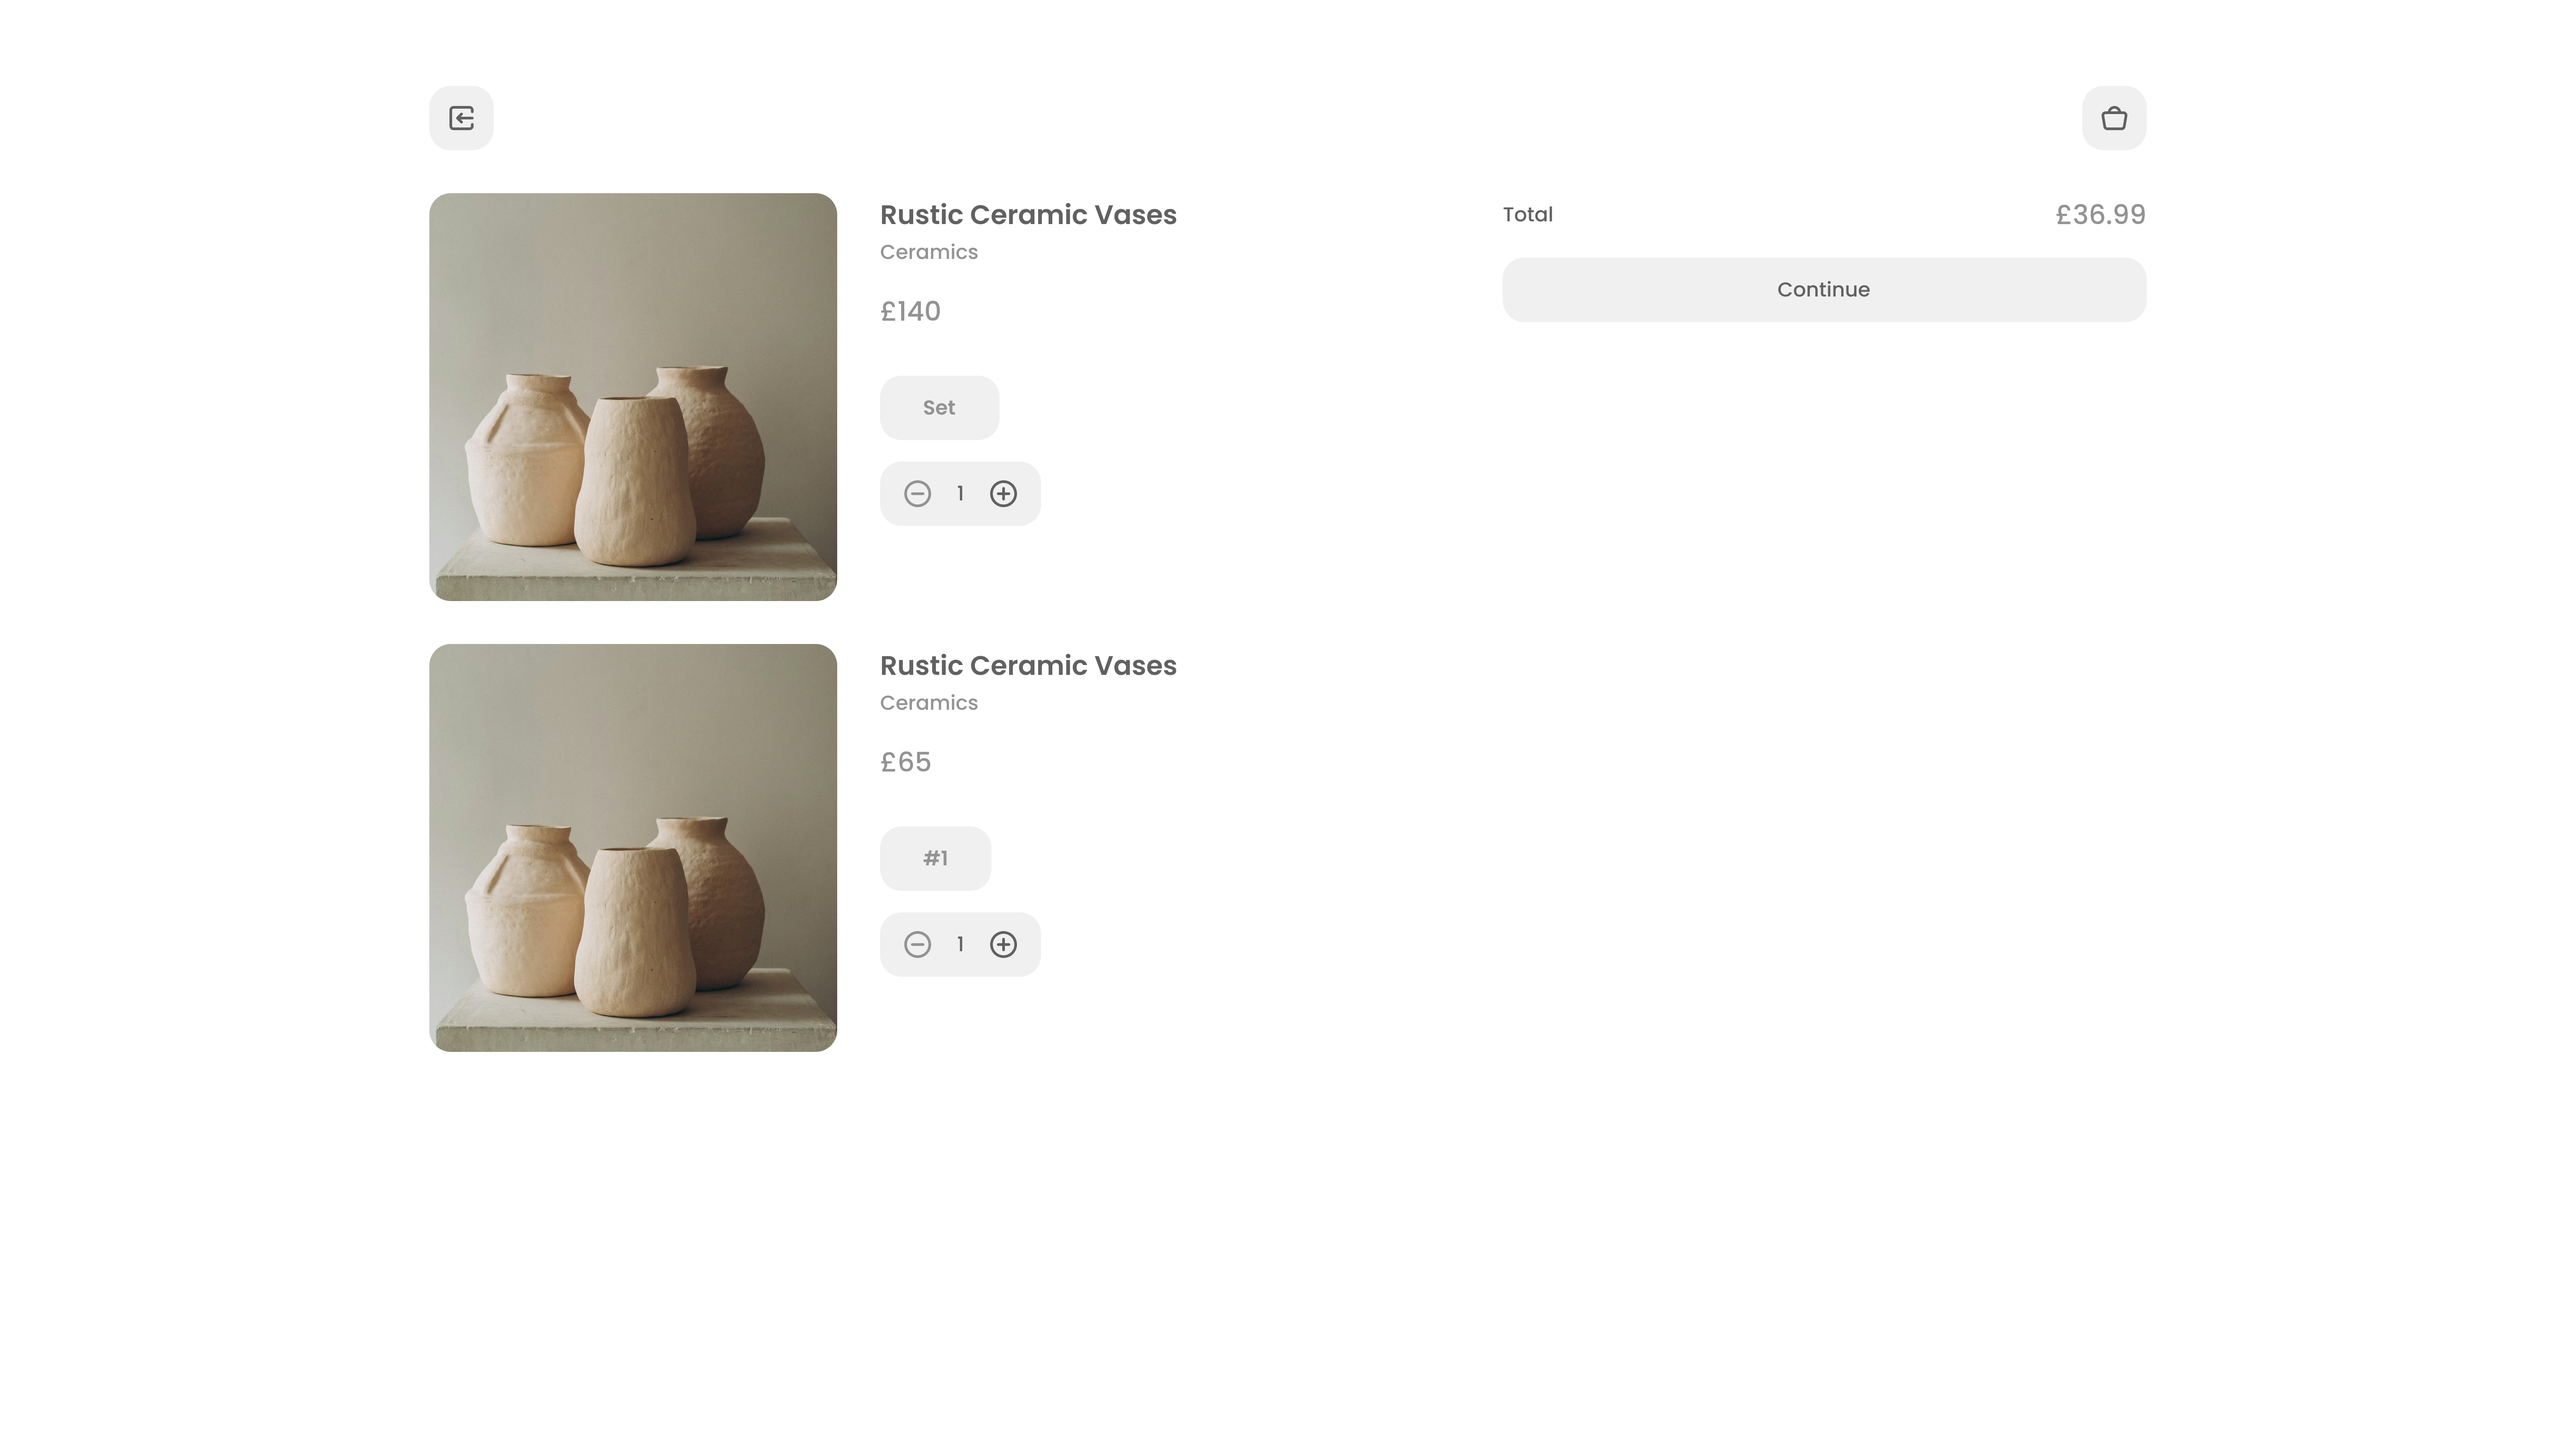
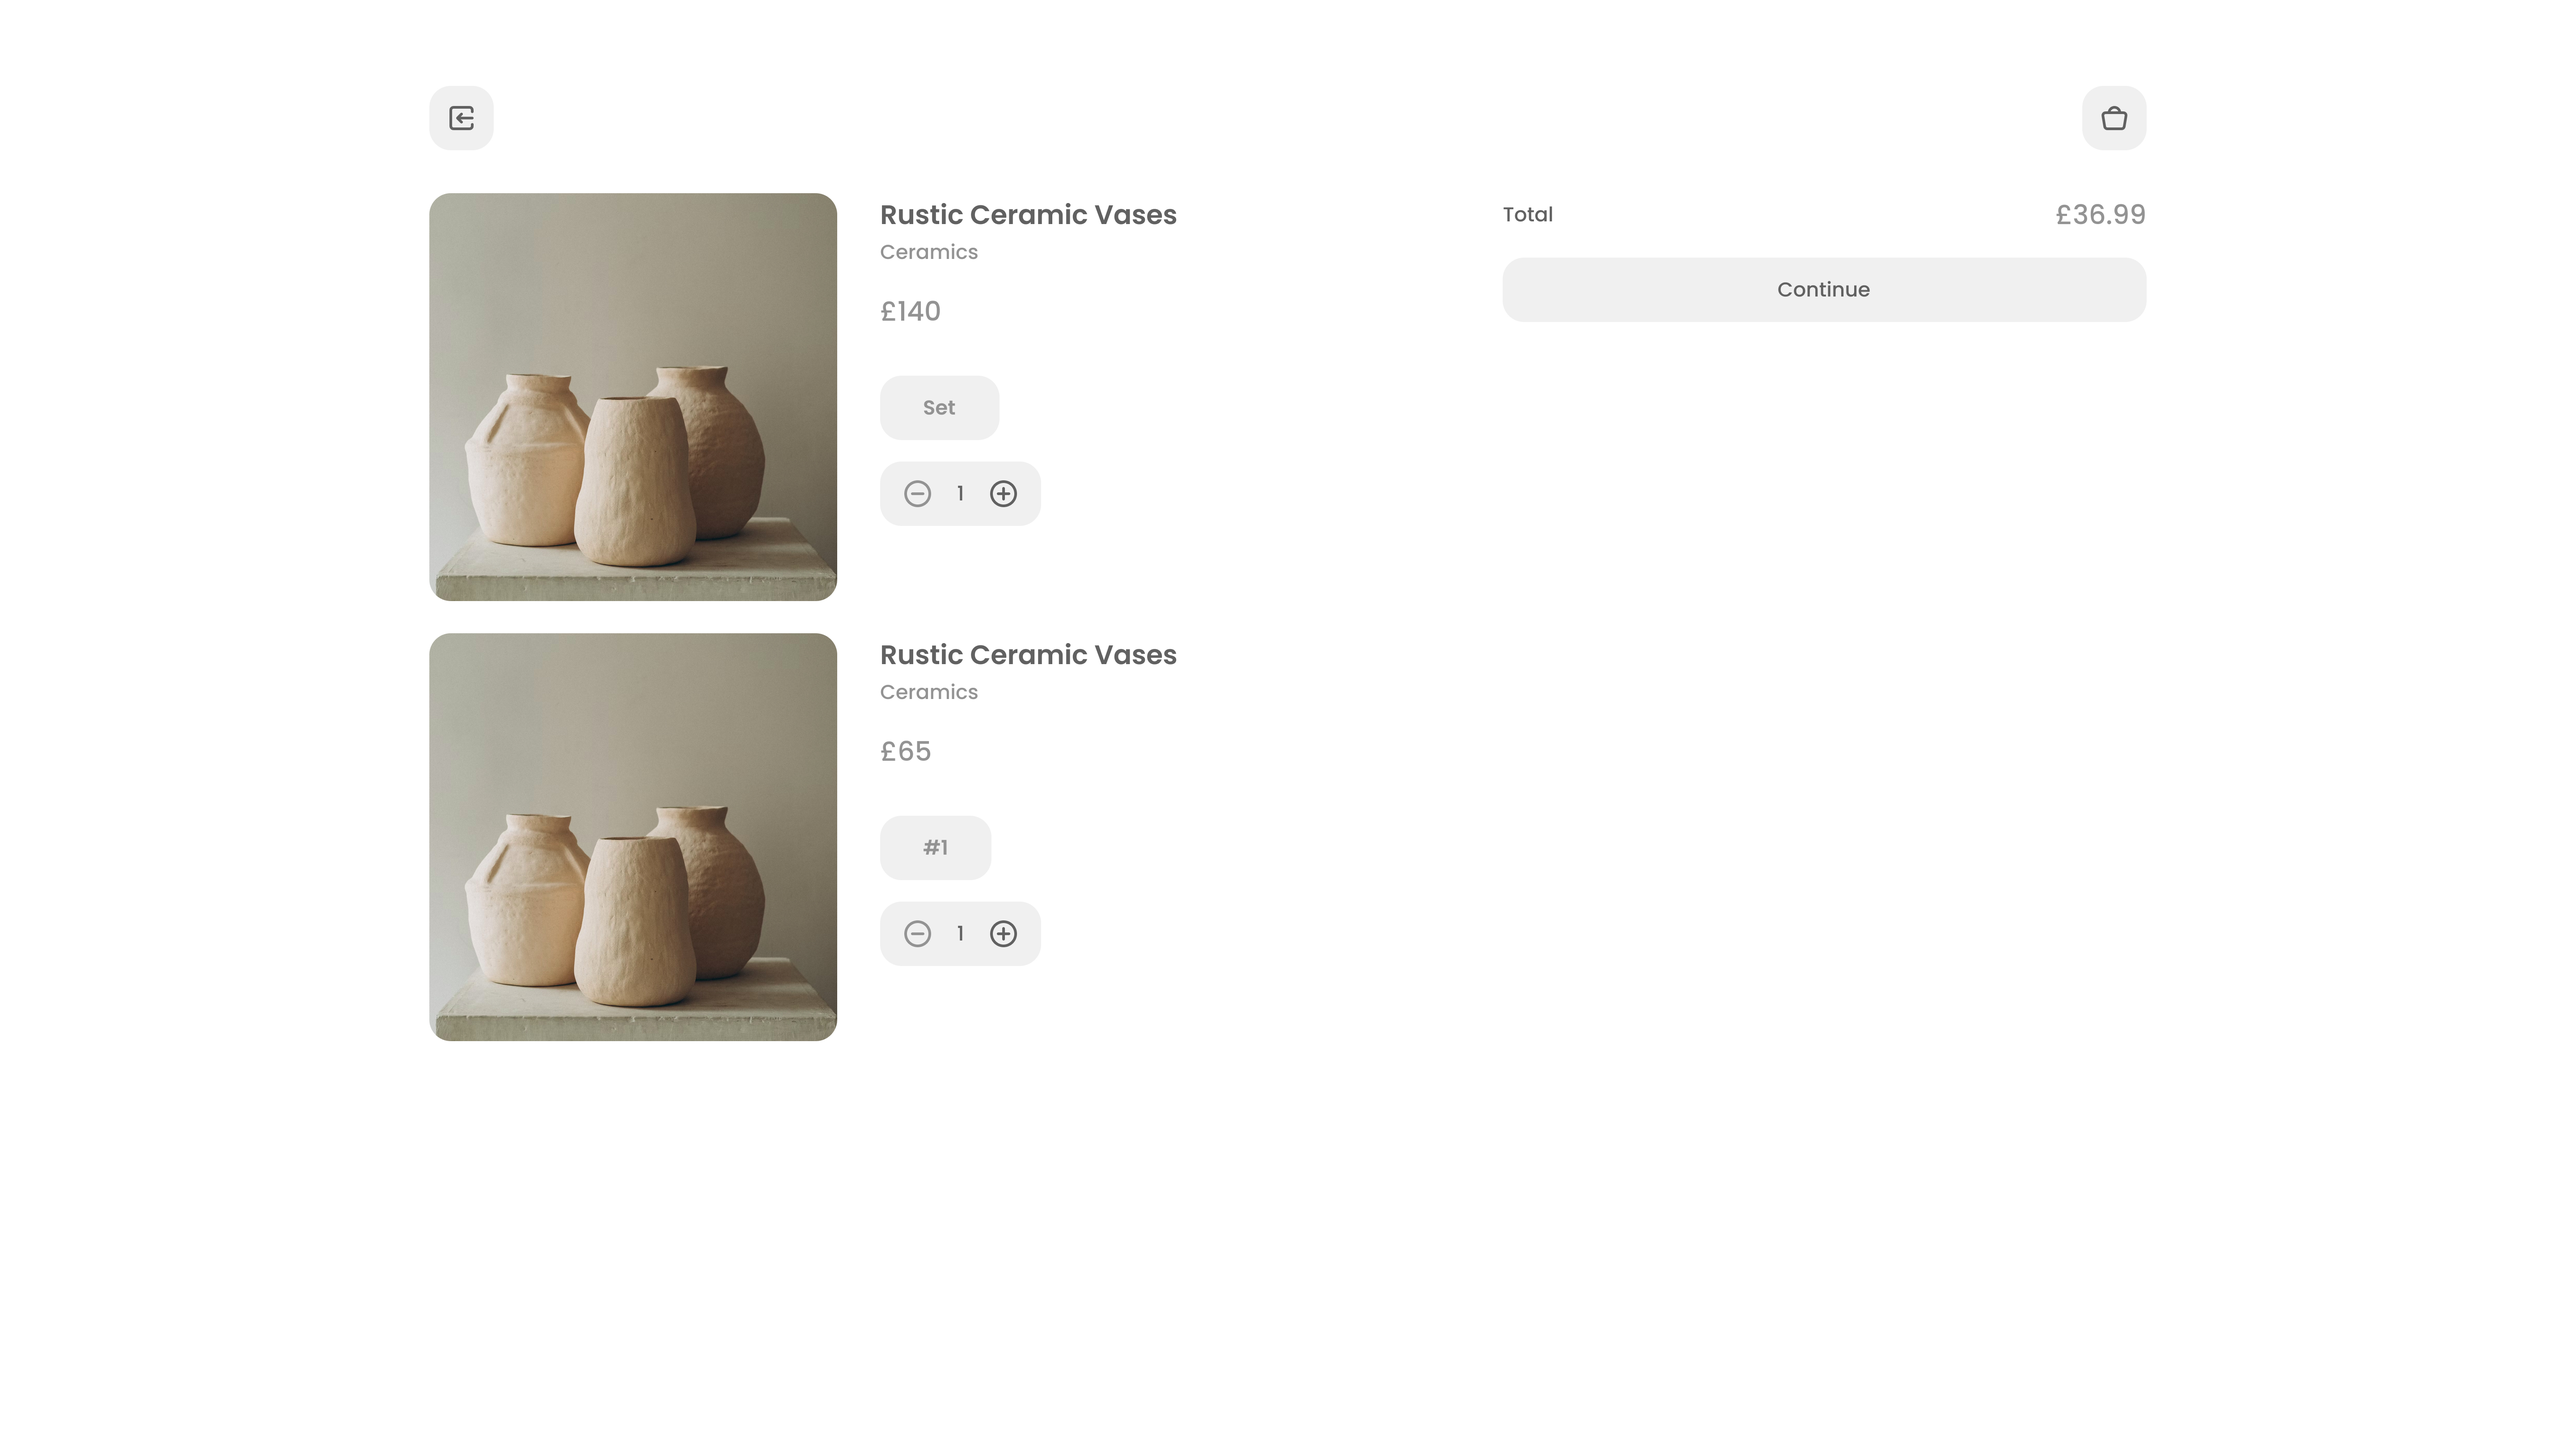
Basket card responsiveness almost complete

Changed region(s): [[0.1562, 0.6546, 0.3438, 0.7481], [0.1562, 0.4364, 0.4688, 0.5299], [0.1875, 0.5299, 0.2812, 0.6235]]

diff --git a/front_end/src/Organisms/Basket-Pg-Actions/Index.tsx b/front_end/src/Organisms/Basket-Pg-Actions/Index.tsx
@@ -1,0 +1,46 @@
+import { FC, useEffect, useState } from "react";
+import BtnMain from "../../Molecules/Btn-Main/Index";
+import Text from "../../Atoms/Text";
+import "./Style.css";
+import Heading from "../../Atoms/Headings";
+
+interface Props {
+	price: number;
+	callback: (callback: number) => void;
+}
+
+const BasketPgActions: FC<Props> = ({ price, callback }) => {
+	// Quanity of the product selected
+	const [quanitity, setQuantity] = useState<number>(1);
+	// User has clicked the button
+	const [okay, setOkay] = useState<boolean>(false);
+
+	// Push the quantity to the parent component on button click
+	useEffect(() => {
+		if (okay) {
+			callback(quanitity);
+		}
+	}, [okay]);
+
+	return (
+		<div className="basket-pg__actions">
+			<div className="basket-pg__actions__top">
+				<Heading
+					type="Primary"
+					size="three"
+					text="Total"
+					colour="--grey-one"
+				/>
+				<Text
+					size="one"
+					text={`£${price * quanitity}`}
+					colour="--grey-two"
+				/>
+			</div>
+
+			<BtnMain text="Continue" output={setOkay} />
+		</div>
+	);
+};
+
+export default BasketPgActions;

diff --git a/front_end/src/Pages/Basket-Page/Service.tsx b/front_end/src/Pages/Basket-Page/Service.tsx
@@ -1,3 +1,5 @@
+import { EventEmitter } from "../../Services/Index";
+
 export interface Product {
 	id: number;
 	heading: string;
@@ -8,6 +10,7 @@ export interface Product {
 
 export class Basket {
 	private static basket: Array<Product>;
+	private static emitter = new EventEmitter();
 
 	static {
 		Basket.basket = JSON.parse(localStorage.getItem("basket") || "[]");
@@ -26,6 +29,7 @@ export class Basket {
 		}
 
 		localStorage.setItem("basket", JSON.stringify(Basket.basket));
+		this.emitter.emit("change");
 	}
 
 	static removeItem(item: Product) {
@@ -41,6 +45,7 @@ export class Basket {
 				Basket.basket.splice(index, 1);
 			}
 			localStorage.setItem("basket", JSON.stringify(Basket.basket));
+			this.emitter.emit("change");
 		}
 	}
 
@@ -53,5 +58,13 @@ export class Basket {
 
 	static getItems() {
 		return Basket.basket;
+	}
+
+	static on(handler: (event: string) => void) {
+		this.emitter.on("change", handler);
+	}
+
+	static off(handler: (event: string) => void) {
+		this.emitter.off("change", handler);
 	}
 }

diff --git a/front_end/src/Pages/Basket-Page/Index.tsx b/front_end/src/Pages/Basket-Page/Index.tsx
@@ -1,14 +1,31 @@
-import { FC } from "react";
+import { FC, useEffect, useState } from "react";
 import NavBar from "../../Organisms/Nav-Bar/Index";
 import { Basket } from "./Service";
 import BasketCrdGrid from "../../Organisms/Basket-Crd-Grid/Index";
+import "./Style.css";
+import BasketPgActions from "../../Organisms/Basket-Pg-Actions/Index";
 
 const BasketPage: FC = () => {
-	console.log(Basket.getItems());
+	const [callback, setCallback] = useState<number>(0);
+	const [price, setPrice] = useState<number>(Basket.getTotal());
+
+	useEffect(() => {
+		const handleBasketChange = () => {
+			setPrice(Basket.getTotal());
+		};
+
+		Basket.on(handleBasketChange);
+
+		return () => {
+			Basket.off(handleBasketChange);
+		};
+	}, []);
+
 	return (
-		<main>
+		<main className="basket-page">
 			<NavBar left="Back" />
 			<BasketCrdGrid products={Basket.getItems()} />
+			<BasketPgActions price={price} callback={setCallback} />
 		</main>
 	);
 };

diff --git a/front_end/src/Services/Index.ts b/front_end/src/Services/Index.ts
@@ -1,0 +1,32 @@
+type EventCallback = (...args: any[]) => void;
+
+export class EventEmitter {
+	private events: { [eventName: string]: EventCallback[] };
+
+	constructor() {
+		this.events = {};
+	}
+
+	on(eventName: string, callback: EventCallback): void {
+		if (!this.events[eventName]) {
+			this.events[eventName] = [];
+		}
+		this.events[eventName].push(callback);
+	}
+
+	off(eventName: string, callback: EventCallback): void {
+		if (this.events[eventName]) {
+			this.events[eventName] = this.events[eventName].filter(
+				(cb) => cb !== callback
+			);
+		}
+	}
+
+	emit(eventName: string, ...args: any[]): void {
+		if (this.events[eventName]) {
+			this.events[eventName].forEach((callback) => {
+				callback(...args);
+			});
+		}
+	}
+}

diff --git a/front_end/src/Organisms/Basket-Pg-Actions/Style.css b/front_end/src/Organisms/Basket-Pg-Actions/Style.css
@@ -1,0 +1,31 @@
+.basket-pg__actions {
+	position: fixed;
+	bottom: 0;
+	display: flex;
+	flex-direction: column;
+	row-gap: 16px;
+	width: 100% !important;
+	padding: 16px 16px 32px;
+	box-sizing: border-box;
+	background: var(--white);
+}
+
+.basket-pg__actions__top {
+	display: flex;
+	align-items: center;
+	flex-direction: row;
+	justify-content: space-between;
+	width: 100%;
+}
+
+@media (min-width: 550px) {
+	.basket-pg__actions {
+		padding: 16px 0px 32px !important;
+		width: 66.66vw !important;
+	}
+}
+
+@media (min-width: 650px) {
+	.basket-pg__actions {
+	}
+}

diff --git a/front_end/src/Styles/Globals.css b/front_end/src/Styles/Globals.css
@@ -32,6 +32,10 @@ body {
 	backface-visibility: hidden;
 }
 
+/* main {
+	min-height: 100svh;
+} */
+
 input {
 	font-family: var(--font-family);
 	font-weight: var(--medium);
@@ -237,7 +241,7 @@ h3 {
 
 @media (min-width: 550px) {
 	body {
-		padding: 32px calc(100vw / 6);
+		padding: 0px calc(100vw / 6);
 		box-sizing: border-box !important;
 	}
 }

diff --git a/front_end/src/Pages/Basket-Page/Style.css b/front_end/src/Pages/Basket-Page/Style.css
@@ -1,0 +1,11 @@
+.basket-page {
+	min-height: 100svh;
+	box-sizing: border-box !important;
+	position: relative;
+}
+
+.basket-page__content {
+	display: flex;
+	flex-direction: column;
+	width: 100% !important;
+}
